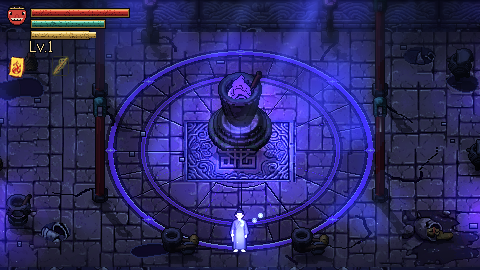
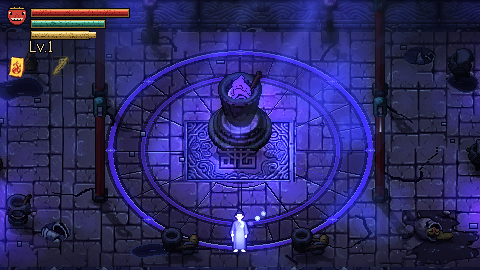
아트 굴3: den3 지형 다듬기 — 입구 틈 바닥 복원·웅덩이 음영·글로우 순서, 4배 비교·overlay 캡처

diff --git a/art/ch2den3_terrain.py b/art/ch2den3_terrain.py
@@ -193,20 +193,20 @@ def black_pool(cv, wm, cx, cy, rx, ry, seed):
     d = np.sqrt(((xx - cx) / rx) ** 2 + ((yy - cy) / ry) ** 2) + n * 0.55
     m = d < 1.0
     m &= wm[y0:y1, x0:x1] > 0.5
-    rim = m & ~ndi.binary_erosion(m, iterations=1)
-    inn = ndi.binary_erosion(m, iterations=2)
+    dist = ndi.distance_transform_edt(m)
     sub = cv[y0:y1, x0:x1]
-    sub[m] = (14, 16, 30)
-    sub[inn] = (8, 10, 22)
-    sub[rim] = (44, 52, 86)
-    # 잔물결: 가로 한 줄짜리 밝은 선, 보라 반짝이
-    for k in range(int(rx * ry / 55)):
+    sub[m & (dist <= 1.5)] = (46, 54, 90)                 # 가장자리 물기 테
+    sub[m & (dist > 1.5) & (dist <= 3.5)] = (18, 20, 38)
+    sub[m & (dist > 3.5) & (dist <= 6)] = (12, 13, 28)
+    sub[m & (dist > 6)] = (7, 8, 20)
+    ww_ = m & (dist > 2.5)
+    for k in range(int(rx * ry / 40)):                     # 잔물결(가로 한 줄 밝은 선) + 보라 반짝이
         px, py = int(rng.integers(0, x1 - x0)), int(rng.integers(0, y1 - y0))
-        if inn[py, px]:
-            ln = int(rng.integers(3, 7))
-            seg = inn[py, px:px + ln]
-            sub[py, px:px + len(seg)][seg] = (34, 44, 82)
-            if rng.random() < 0.35 and inn[py, min(px + 1, x1 - x0 - 1)]:
+        if ww_[py, px]:
+            ln = int(rng.integers(3, 8))
+            seg = ww_[py, px:px + ln]
+            sub[py, px:px + len(seg)][seg] = (30, 40, 78)
+            if rng.random() < 0.3:
                 sub[py, px] = VIO[1]
 
 
@@ -255,6 +255,7 @@ def den3_source():
     d1 = T.den1_png()
     sl = d1[36:98, 20:132]
     L.paste(cv, sl, CX - 56, CY - 30, None)
+    L.glow_pools(cv, [(60, 120), (580, 120), (60, 260), (580, 260), (320, 70)], radii=(18, 40, 70), adds=((10, 4, 20), (8, 3, 14), (6, 2, 10)))
     # 검은 웅덩이 4곳(소품·소환점과 겹치지 않는 모서리 쪽) + 일러스트 웅덩이 스탬프
     black_pool(cv, wm, 100, 118, 26, 11, 3)
     real_puddle(cv, wm, (510, 365, 705, 510), (480, 238), flip=True)            # 동쪽 아래: 깨진 항아리 + 검은 물
@@ -263,7 +264,6 @@ def den3_source():
     T.decals(cv, rng, [('pots_b', 136, 262, False), ('pile', 500, 86, True)], d1)
     fissures(cv, wm, rng, r)
     L.rubble(cv, rng, [(rng.uniform(70, 570), rng.uniform(72, 292)) for _ in range(12)])
-    L.glow_pools(cv, [(60, 120), (580, 120), (60, 260), (580, 260), (320, 70)], radii=(18, 40, 70), adds=((10, 4, 20), (8, 3, 14), (6, 2, 10)))
     walls(cv, rng)
     return cv, None, None
 
@@ -314,14 +314,13 @@ def walls(cv, rng):
         while y < 305:
             seg = (c if k % 2 == 0 else c[::-1])
             h = min(seg.shape[0], 305 - y)
-            cv[y:y + h, x0:x0 + seg.shape[1]] = seg[:h]
+            for yy in range(h):
+                if not (x0 < 100 and 150 <= y + yy < 212):                 # 서쪽 입구 틈은 바닥을 남긴다
+                    cv[y + yy, x0:x0 + seg.shape[1]] = seg[yy]
             y += seg.shape[0]; k += 1
     side(24, False)
     side(598, True)
     # 입구 틈(png y150~212)은 갓돌을 지우고 문설주 돌 둘로 끝을 마감한다 — 바닥은 걷기 면이라 건드리지 않음
-    gate = ndi.binary_dilation(np.pad(np.zeros((1, 1), bool), 0), iterations=0) if False else None
-    fl = cv[150:212, 46:70].copy()
-    cv[150:212, 20:46] = np.concatenate([fl[:, ::-1], fl[:, ::-1]], 1)[:, :26]
     post = np.rot90(cap_row[:, :24], 1)                  # 24 x 20
     for y0 in (128, 212):
         cv[y0:y0 + 24, 24:44] = post
